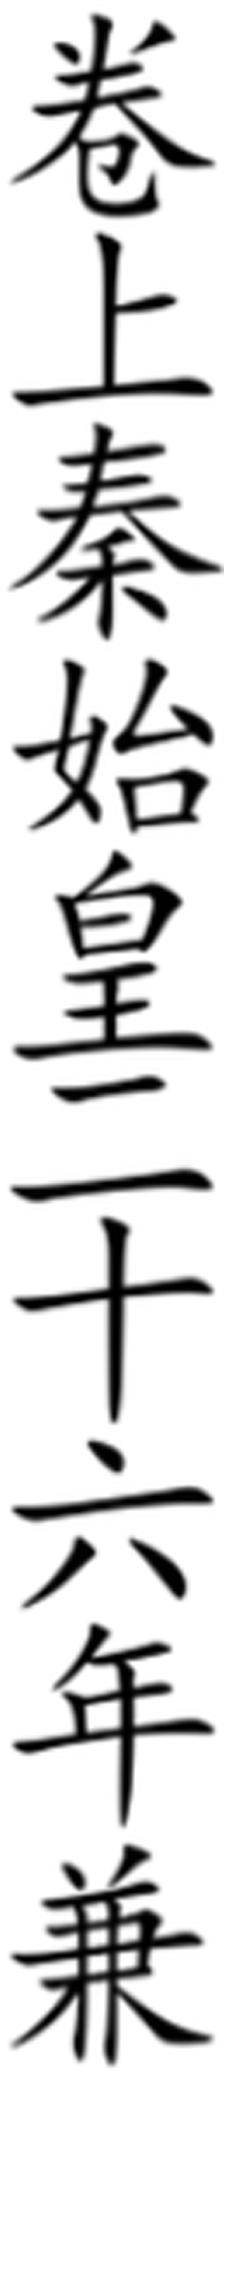
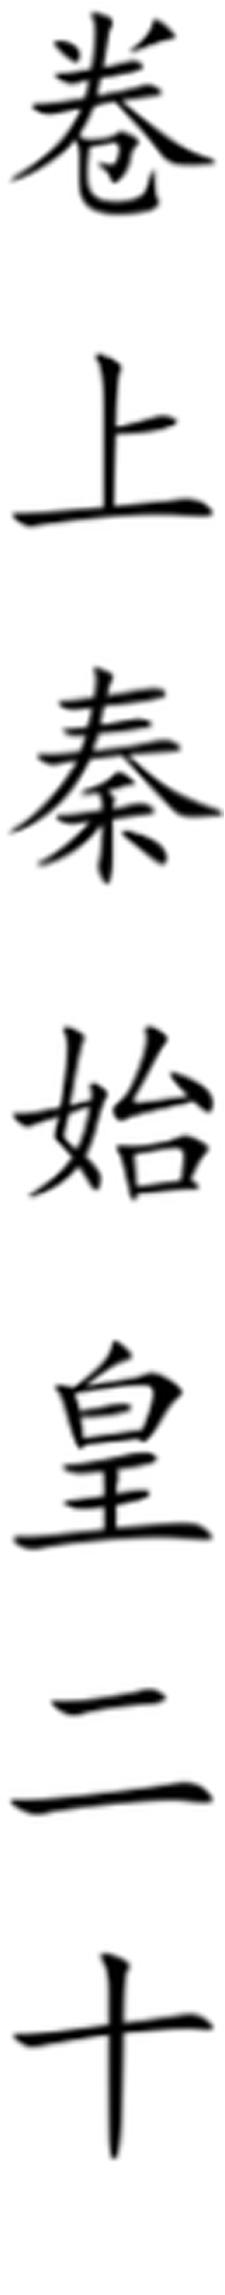
update

Changed region(s): [[0.0311, 0.0, 0.9956, 0.959]]

diff --git a/generate_specific_book_pages.py b/generate_specific_book_pages.py
@@ -567,6 +567,8 @@ class generate_text_lines_with_text_handle:
                 char_spacing = (random.uniform(0.0, 0.2), random.uniform(0.02, 0.15))  # (高方向, 宽方向)
             elif config.segment_type == 'crowded':
                 char_spacing = (random.uniform(-0.1, 0.1), random.uniform(0.02, 0.15))  # (高方向, 宽方向)
+            elif config.segment_type == 'crowded_x':
+                char_spacing = (random.uniform(0.0, 0.2), random.uniform(0.01, 0.02))  # (高方向, 宽方向)
             elif config.segment_type == 'spacious':
                 char_spacing = (random.uniform(0.3, 0.6), random.uniform(0.02, 0.15))  # (高方向, 宽方向)
             elif config.segment_type == 'mixed':
@@ -631,6 +633,8 @@ class generate_text_lines_with_text_handle:
                 char_spacing = (random.uniform(0.0, 0.2), random.uniform(0.02, 0.15))  # (高方向, 宽方向)
             elif config.segment_type == 'crowded':
                 char_spacing = (random.uniform(-0.1, 0), 0)  # (高方向, 宽方向)
+            elif config.segment_type == 'crowded_x':
+                char_spacing = (random.uniform(0.3, 0.6), 0)  # (高方向, 宽方向)
             elif config.segment_type == 'spacious':
                 char_spacing = (random.uniform(0.3, 0.6), random.uniform(0.02, 0.15))  # (高方向, 宽方向)
             elif config.segment_type == 'mixed':

diff --git a/config.py b/config.py
@@ -183,7 +183,7 @@ class config_manager:
         self.init_num = 0  # 生成的初始序号，用于中断后继续生成
 
         self.special_type = []  # 特殊的格式  从[split|num_end|num_start]中选择并加入
-        self.segment_type = 'normal'  # 字之间间隔格式 [normal|spacious|crowded|mixed]
+        self.segment_type = 'normal'  # 字之间间隔格式 [normal|spacious|crowded|mixed|crowded_x]
 
         self.multiple_plate = False  # 某些排版需要多个板块拼接
         self.plate_type = 'note_inside'  # 拼接类型
